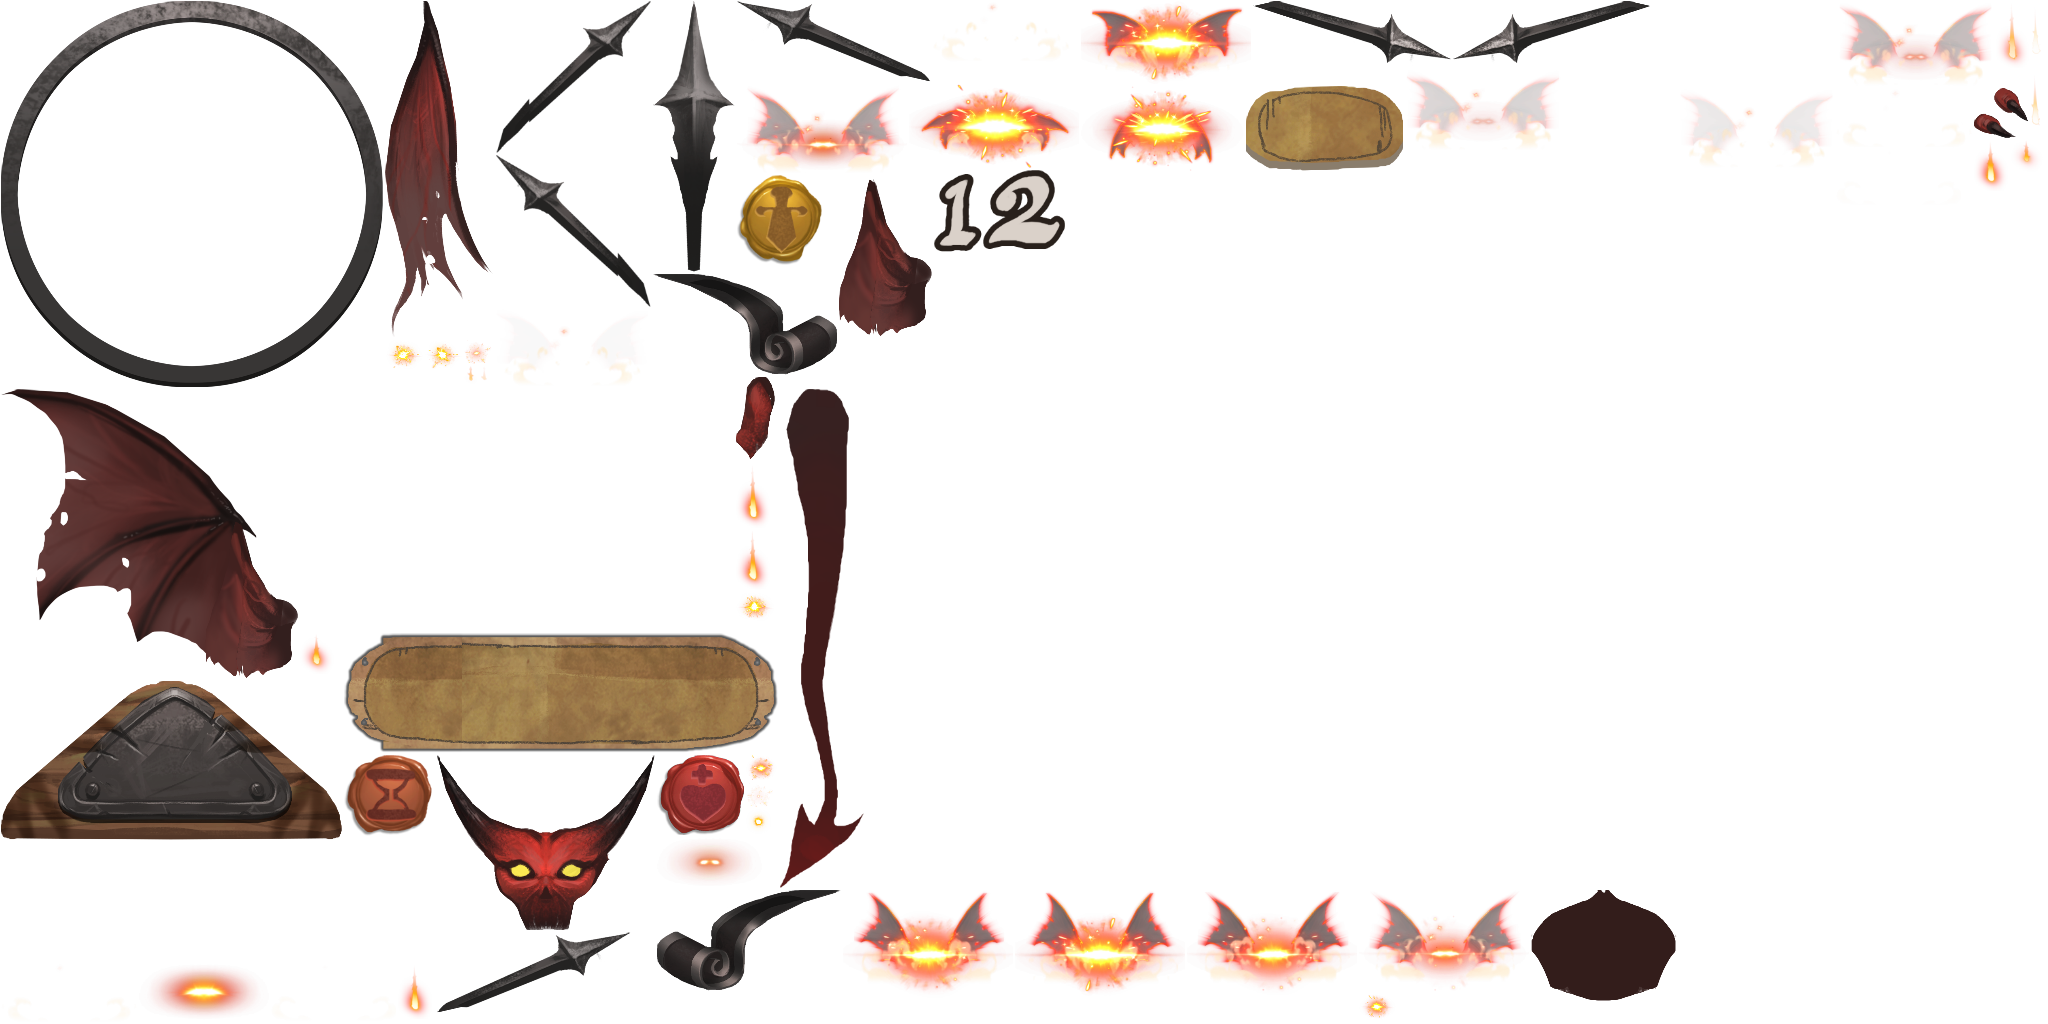
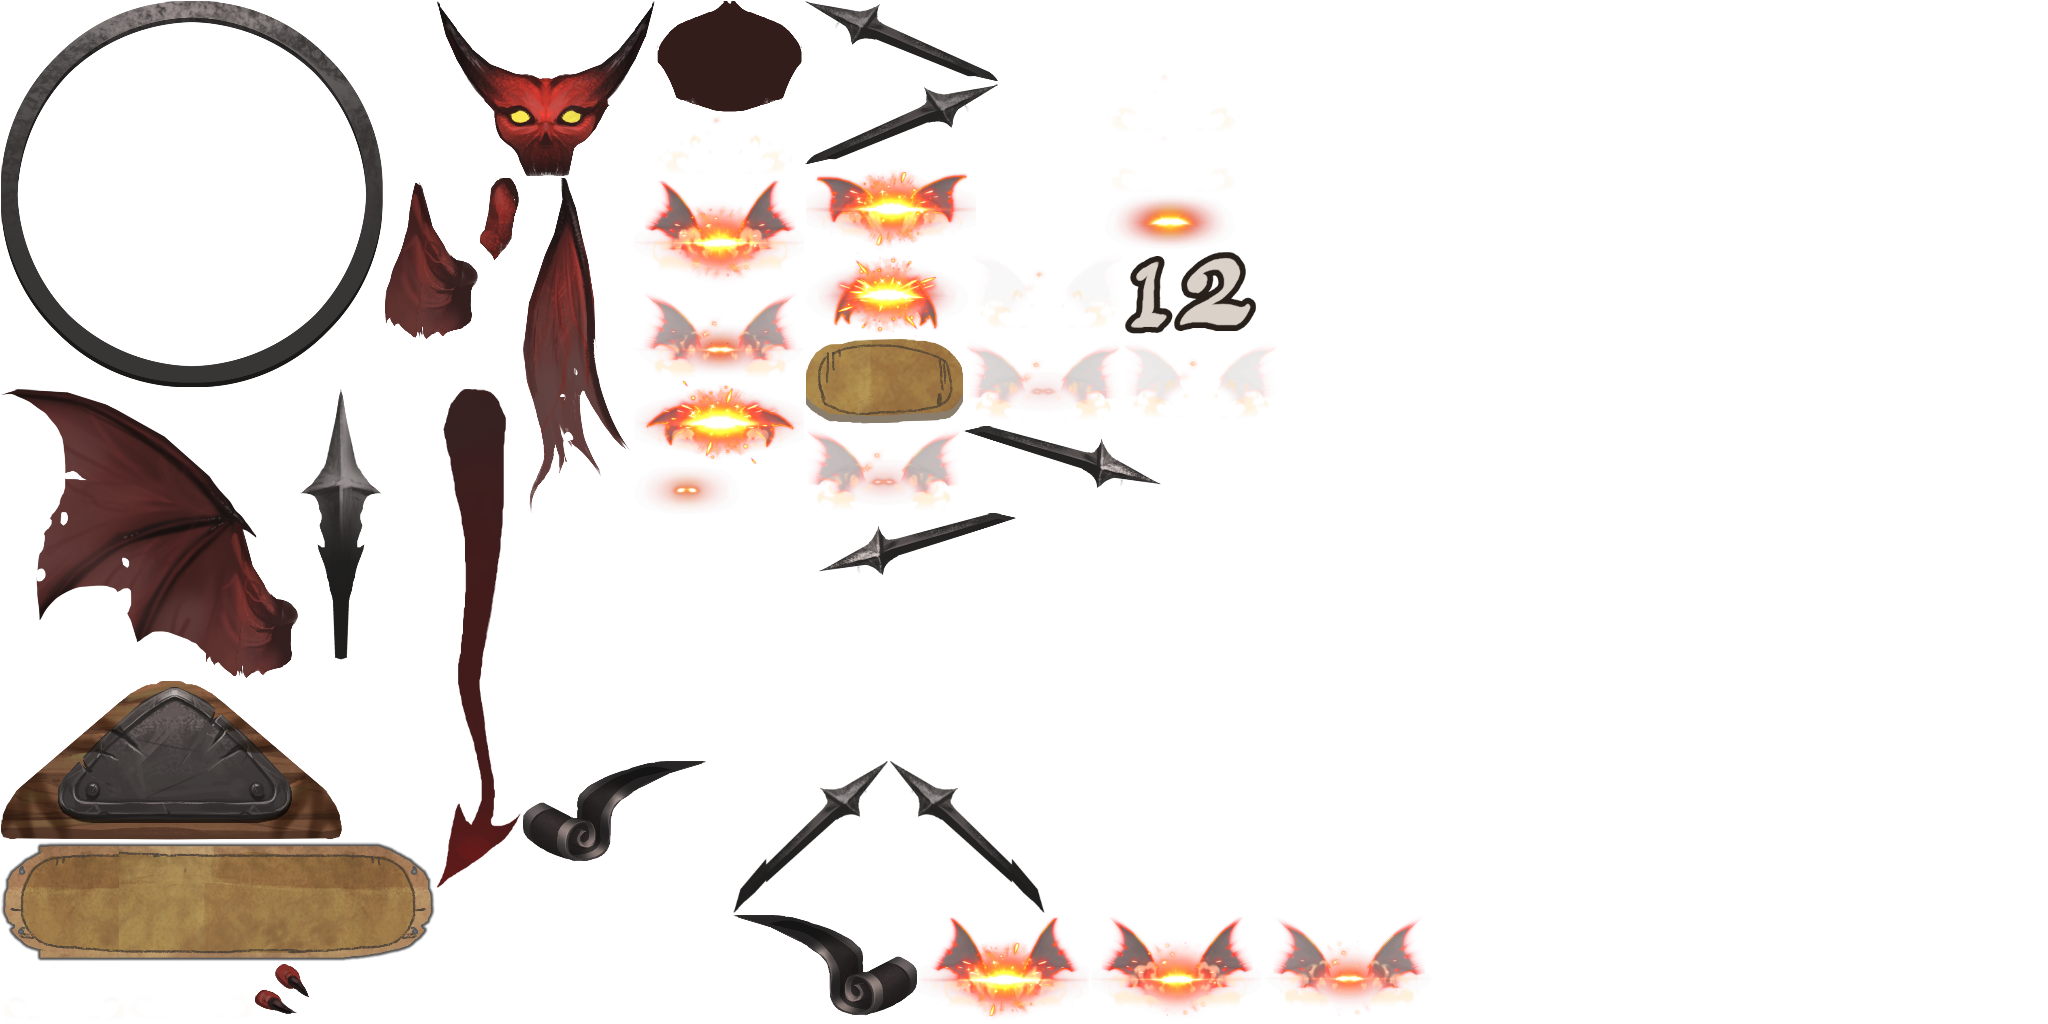
角色升级特效

diff --git a/client/src/view/PlayerLevelUpView.ts b/client/src/view/PlayerLevelUpView.ts
@@ -2,9 +2,11 @@
 class PlayerLevelUpView extends egret.DisplayObjectContainer {    
     public player:Player;
 
-    bg:egret.Bitmap; // 背景
-    lvBg:egret.Bitmap; // 恶魔头像
-    lvBg2:egret.Bitmap; // 恶魔尾巴
+    // bg:egret.Bitmap; // 背景
+    // lvBg:egret.Bitmap; // 恶魔头像
+    // lvBg2:egret.Bitmap; // 恶魔尾巴
+
+    public bv:BattleView; // 战斗界面
 
     lvTxt:egret.BitmapText; // 等级数字
     btnOk:TextButtonWithBg; // 确定按钮
@@ -106,9 +108,35 @@ class PlayerLevelUpView extends egret.DisplayObjectContainer {
         var shuzi = ske.getSlot("shuzi");
         shuzi.display = this.lvTxt;
         this.lvTxt.anchorOffsetX = this.lvTxt.width / 2;
-        this.lvTxt.anchorOffsetY = this.lvTxt.height / 2;
+        this.lvTxt.anchorOffsetY = this.lvTxt.height / 2;        
 
-        ske.animation.play("stand3");
+        // 龙出现
+        ske.animation.play("stand");
+
+        await Utils.delay(500);
+
+        // 经验条顶端爆炸
+        var eff1 = AniUtils.createFrameAni("effPlayerLevelUp2", 1);
+        var bvPos = AniUtils.ani2global(this.bv.avatarBg);
+        var effPos = {x: bvPos.x + this.bv.avatarBg.width - 10, y:bvPos.y + 10};
+        eff1.x = effPos.x;
+        eff1.y = effPos.y;
+        eff1["wait"]().then(() => eff1["dispose"]());
+
+        // 飞行效果
+        await Utils.delay(100);
+        var eff2 = ViewUtils.createFrameAni("effPlayerLevelUp1");
+        let track = new BazierControllerWrapper(eff2);
+        AniUtils.ac.addChild(track);
+        eff2.play(1);
+        eff2.x = effPos.x;
+        eff2.y = effPos.y;
+        var toPos = AniUtils.ani2global(this);
+        toPos.x += this.width / 2;
+        toPos.y += this.height / 4 + 50;
+        await AniUtils.createFlyTrack(track, effPos, toPos, 500);
+        eff2["stop"]();
+        AniUtils.ac.removeChild(track);
 
         return new Promise<string>((resolve, reject) => {
             this.doSel = (r) => {

diff --git a/client/src/view/MainView.ts b/client/src/view/MainView.ts
@@ -56,6 +56,7 @@ class MainView extends egret.DisplayObjectContainer {
 
         // 角色升级界面
         this.pluv = new PlayerLevelUpView(w, h);
+        this.pluv.bv = this.bv;
 
         // 登录界面
         this.lgv = new LoginView(w, h);
